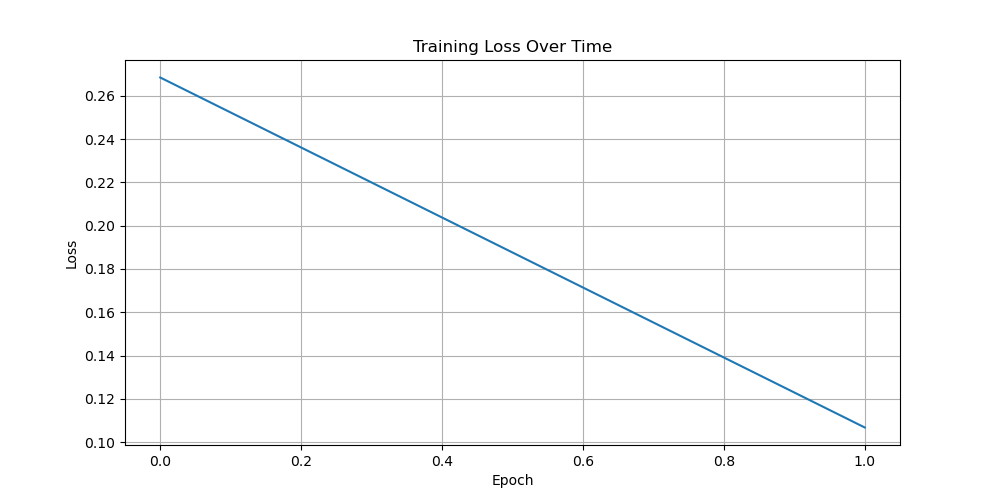
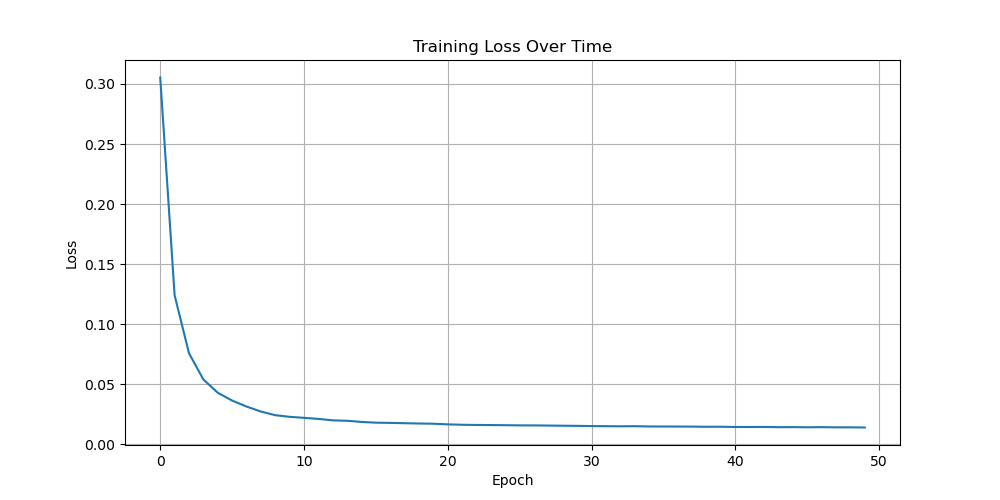
trained autoenc and dec; test has path error

diff --git a/models/tests.py b/models/tests.py
@@ -5,6 +5,8 @@ from model import SpectrogramEncoder, SpectrogramDecoder
 from config import config
 from model import StyleEncoder
 from dataset import SpectrogramDataset
+import torch
+import matplotlib.pyplot as plt
 
 def test_ddim_deterministic():
     """Test if DDIM sampling is deterministic when eta=0"""
@@ -301,6 +303,64 @@ def check_dataset_dimensions(dataset, expected_size=(256, 256)):
         print(f"\nFound {len(incorrect_indices)} images with incorrect dimensions!")
         print(f"Indices of incorrect images: {incorrect_indices}")
 
+
+# TODO: fix path error
+def test_autoencoder_reconstruction():
+    """
+    Load pretrained autoencoder and decoder, reconstruct 5 random images from dataset
+    and plot them side by side with originals.
+    """
+
+    # Set device
+    device = torch.device('mps' if torch.backends.mps.is_available() else 'cpu')
+
+    # Load models
+    encoder = SpectrogramEncoder().to(device)
+    decoder = SpectrogramDecoder().to(device)
+    
+    # Load pretrained weights
+    encoder.load_state_dict(torch.load('models/pretrained/encoder.pth'))
+    decoder.load_state_dict(torch.load('models/pretrained/decoder.pth'))
+    
+    # Set to eval mode
+    encoder.eval()
+    decoder.eval()
+
+    # Get dataset
+    dataset = SpectrogramDataset(config)
+    
+    # Select 5 random indices
+    indices = torch.randint(0, len(dataset), (5,))
+    
+    # Create figure
+    fig, axes = plt.subplots(2, 5, figsize=(15, 6))
+    
+    with torch.no_grad():
+        for idx, ax_idx in enumerate(indices):
+            # Get original image
+            image, label = dataset[ax_idx]
+            image = image.unsqueeze(0).to(device)  # Add batch dimension
+            
+            # Get reconstruction
+            latent = encoder(image)
+            reconstruction = decoder(latent)
+            
+            # Plot original
+            axes[0, idx].imshow(image.squeeze().cpu(), cmap='gray')
+            axes[0, idx].set_title(f'Original\n{label}')
+            axes[0, idx].axis('off')
+            
+            # Plot reconstruction
+            axes[1, idx].imshow(reconstruction.squeeze().cpu(), cmap='gray')
+            axes[1, idx].set_title('Reconstruction')
+            axes[1, idx].axis('off')
+    
+    plt.tight_layout()
+    plt.savefig('models/plots/autoencoder_reconstructions.png')
+    plt.close()
+    print("Reconstruction test complete. Check models/plots/autoencoder_reconstructions.png")
+
+
 if __name__ == "__main__":
     # test_ddim_deterministic()
     # test_ddim_shape_preservation()
@@ -311,7 +371,8 @@ if __name__ == "__main__":
     # test_decoder_dimensions()
     # test_encoder_decoder_pipeline()
     # test_decoder_output_range()
-    dataset = SpectrogramDataset(config)
-    check_dataset_ranges(dataset)
-    check_dataset_dimensions(dataset, (128, 128))
+    # dataset = SpectrogramDataset(config)
+    # check_dataset_ranges(dataset)
+    # check_dataset_dimensions(dataset, (128, 128))
+    test_autoencoder_reconstruction()
     print("All tests passed!")

diff --git a/models/dataset.py b/models/dataset.py
@@ -72,7 +72,8 @@ def prepare_dataset(config):
     test_size = len(dataset) - train_size
     train_dataset, test_dataset = torch.utils.data.random_split(dataset, [train_size, test_size])
 
-    train_loader = DataLoader(train_dataset, batch_size=config["batch_size"], shuffle=True, num_workers=4)
+    # TODO: Remove num_workers=0, so far it doesnt work with multiprocessing
+    train_loader = DataLoader(train_dataset, batch_size=config["batch_size"], shuffle=True, num_workers=0)
     test_loader = DataLoader(test_dataset, batch_size=config["batch_size"], shuffle=False, num_workers=4)
 
     return train_loader, test_loader

diff --git a/models/config.py b/models/config.py
@@ -4,7 +4,7 @@ config = {
     'learning_rate_factor': 0.5,
     'learning_rate_patience': 5,
     'learning_rate_min': 1e-6,
-    'num_epochs': 2,
+    'num_epochs': 50,
     'batch_size': 32,
     'data_dir': 'downloads/',
     'file_name': 'processed_dataset.parquet',

diff --git a/Readme.MD b/Readme.MD
@@ -16,7 +16,7 @@ This project implements the framework described in the paper Music Style Transfe
 
 # TODOs Andrei
 
-- [ ] redo the dataset with saved images it is too slow now
+- [ ] define and fix final LDM model
 - [ ] 1. Train autoencoder and decoder separately just for reconstruction (with perceptual and KL loss) - decoder should not be then frozen during the actual training just the encoder
       2. 
 
@@ -42,3 +42,6 @@ This project implements the framework described in the paper Music Style Transfe
 - [ ] Why are the db in the reconstructed songs so different? Does changing normalization affect this? Can we just adjust volume?
 - [ ] Statistics on the spectograms -> By label (maybe plot 16 spectograms per label) Do patterns emerge?
 - [ ] Complete Dataset in different pytorch format
+
+
+- [x] redo the dataset with saved images it is too slow now
